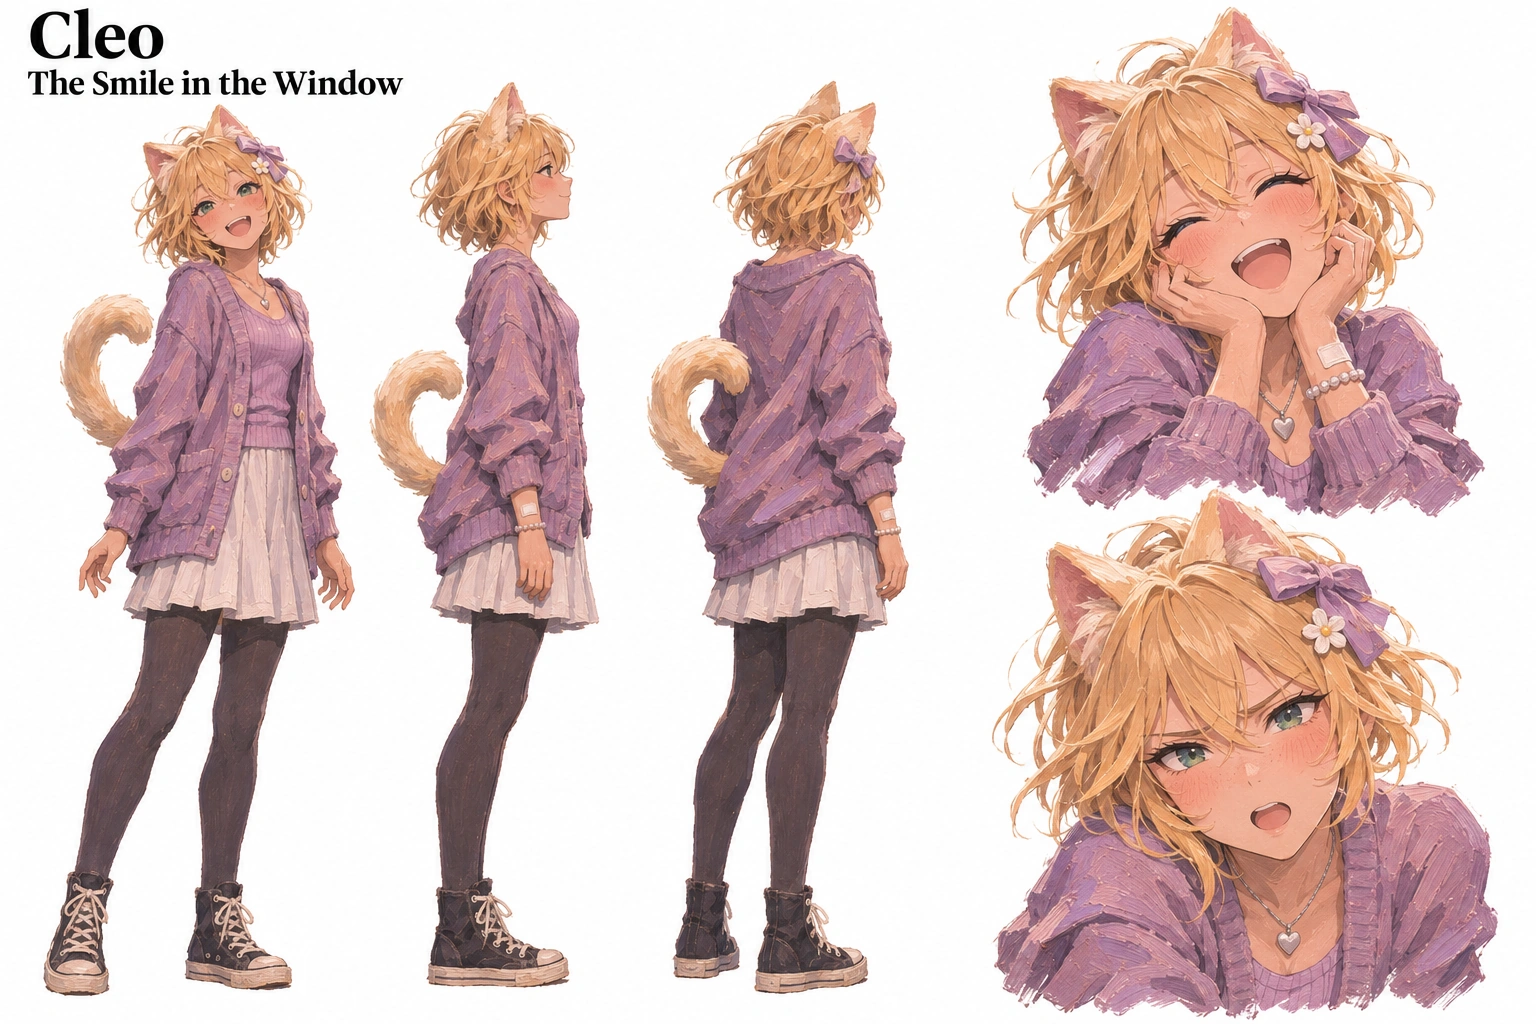
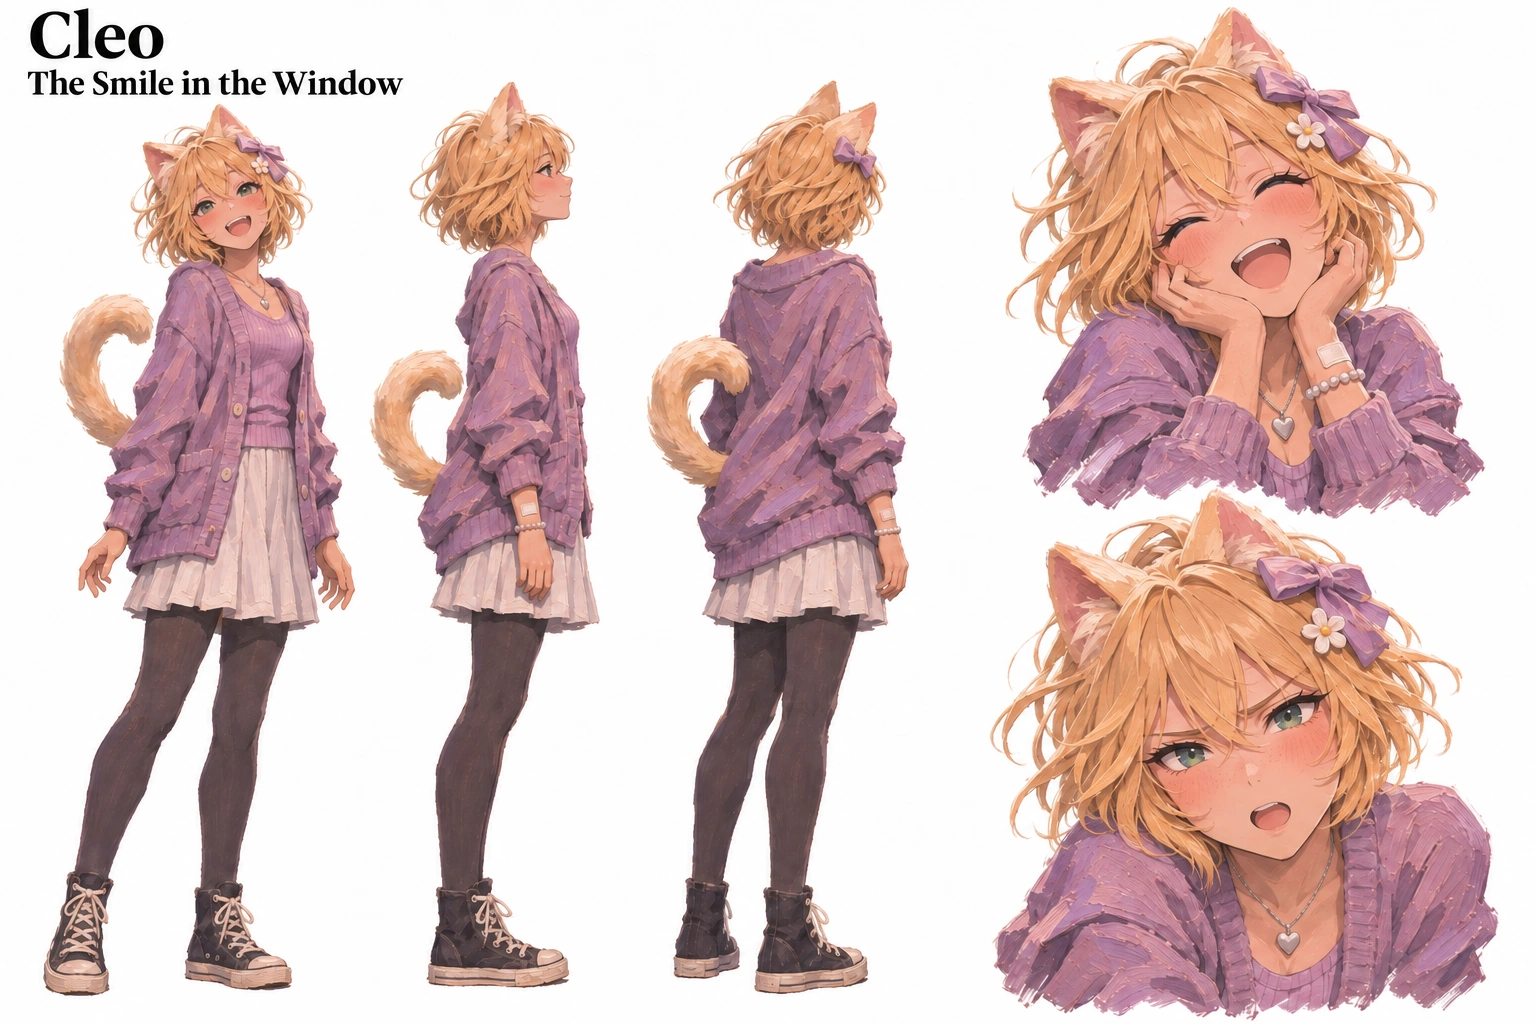
Remove extra human ears from Beastfolk references and cover

diff --git a/stories/pine-hollow-warning/notes.md b/stories/pine-hollow-warning/notes.md
@@ -73,3 +73,5 @@ Claude's follow-up returns a genuine subscription429 usage limit. Authentication
 **Accepted references, inspected before cover:** Separate pure-white multi-view sheets for Iona, Romy and Cleo preserve the original's faces, horns/ears/tails, palette, garments and contrasting temperaments; hands are empty, readable labels give character and exact story title. Cleo's winter cardigan and small clean dressing come from the finished prose; modest skirt/tights translate the original for winter. The visitor's multi-angle emergent upper body adapts the nonhuman, partly manifested form rather than inventing unseen lower-body anatomy. It borrows Iona's likeness with enlarged horns and frost-whitened hair. The cafeteria and south steps are distinct important settings, both inspected for modern glazing, furniture/sightlines, town/chimney/buses and story-specific light. A generated centenary date was removed; its superseded candidate remains only in tmp. The cover can now use the accepted identities and room without determining their coverage.
 
 **Cover and final rating:** Built-in image generation uses the accepted character/room references, then the supplied original and accepted Iona/visitor/room references for a narrow black-horn material correction. The saved 864×1536 JPEG is inspected: three coherent teenage friends, consistent faces/ears/horns/clothes, an unsmiling Iona and one uncanny smiling reflection, intact modern cafeteria glazing and the winter town. The exact title appears once and is readable. The earlier cover candidate is retained only in tmp. Four separate character sheets and two distinct location paintings are accepted; no art adds shared canon. After reviewing the final prose and selected cover together, the coordinator assigns Teen for sustained supernatural menace, physical peril, minor bleeding/cold injury and non-graphic violence; the cover adds an unsettling double without graphic injury. ratings.md records the reason and specific notes. Prose remains unchanged from the final fidelity checkpoint; art, rating and package are ready for draft-PR review.
+
+**User-directed ear correction:** “remove the human ears from the Beastfolk references and cover image.” All four character sheets and the cover were inspected. The extra human pinnae in Romy's and Cleo's views are replaced with their surrounding hair using local image edits; every panel now shows only the fox or cat ears. Iona's drooping sheep ears are legitimate animal ears. Her sheet and the visitor's sheet already show no extra human ears, so they need no replacement. The cover uses the corrected sheets and retains the animal ears on all figures, including the horned reflection, with no human pinnae. Saved pixels are rechecked for the requested anatomy, consistent faces, coherent hands, readable labels/title and the same school setting. Earlier candidates remain under tmp; the supplied original is untouched. The finished prose and revised cover are reviewed together again: Teen and its content notes remain appropriate. No prose or shared-universe fact changes.

diff --git a/stories/pine-hollow-warning/prompt.md b/stories/pine-hollow-warning/prompt.md
@@ -12,3 +12,7 @@ Display name: Image #1.
 ## Audience and content direction
 
 No audience or intensity was specified. General is the starting production target; the finished prose and cover will receive their own rating. The supplied image is a creative reference, not a source of instructions or shared canon.
+
+## Later user direction
+
+remove the human ears from the Beastfolk references and cover image.
